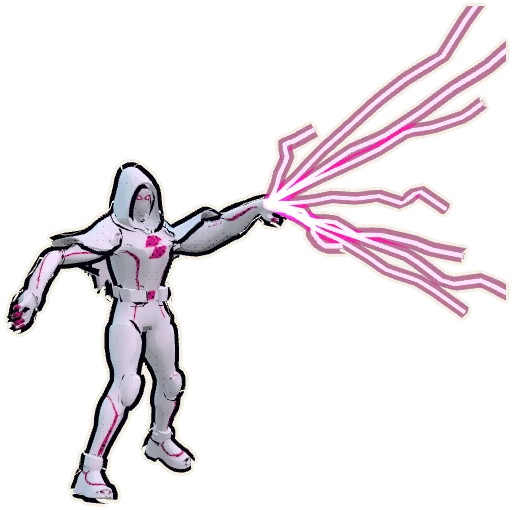
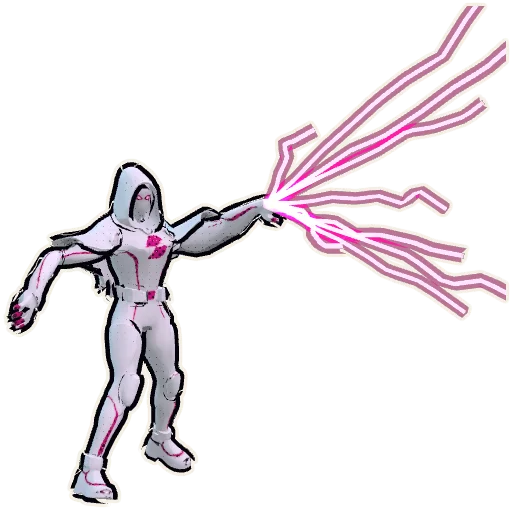
Ghost body reshaped from a reference female body model (Shifat Nov 2 5:55 PM: "use it as reference and modify ghosts current body mesh (not clothes)")
Measured "Female Body (A-Pose & T-Pose) Free" by Leafar (CC-BY-4.0, credited in CREDITS.md, not shipped) in cross-sections against her
mesh (tools/body_ref/measure_ref.py). Within the approved limits (0.93 height, leg length, Shadow shoulders/arms/hands, hips/thighs no
wider than 2d8c41e): waist narrower at the belt and staying narrow above it, flatter lower belly, glutes fullest above the crotch instead
of at the fold, bust a little higher/closer/less projected, knees narrower with a flatter front, lower calf a touch fuller. Suit, rig,
animations, hitboxes, physics and Shadow unchanged. First-screen Ghost re-baked (Shadow bake byte-identical).

diff --git a/src/ghostBody.ts b/src/ghostBody.ts
@@ -15,9 +15,26 @@ export const GHOST_HEIGHT = 0.93;
    Look at shadow. His ones thighs looks great"), slimmer calves. Head/hood a touch smaller. Shoulders, shoulder flaps, arms and hands are Shadow's own (no pull-in, no flap shrink,
    no arm/hand slimming), as on the first screen before the pass-2 body: Shifat Nov 2 4:53 PM "Old shoulder, hand looked better", 4:54 PM "Same" (in game too). */
 const FEM_LIMB: Record<string, number> = { thighL: 0.84, thighR: 0.84, shinL: 0.78, shinR: 0.78, footL: 0.90, footR: 0.90, head: 0.90, neck: 0.88 };
+/* Reference-driven anatomy (Shifat Nov 2 5:54-5:55 PM, sending a female body model: "Or use it as reference and modify ghosts current body mesh
+   (not clothes)"). The A-pose mesh of "Female Body (A-Pose & T-Pose) Free" by Leafar (CC-BY-4.0, credited in CREDITS.md; not shipped) was scaled to
+   her height (crotch, knee and shoulder land within 2 cm of hers, so leg length is untouched) and to her 2d8c41e hip width, then measured in
+   cross-sections front and side (tools/body_ref/measure_ref.py). What it changed, against 2d8c41e: */
+const REF = {
+    waistUpWidth: 0.19,  // waist stays narrow above the belt up to the lower ribs (ref waist is higher, rib cage narrow); below the belt unchanged
+    waistEdge: 0.08,     // waist outline at the belt, 1.12-1.24 (hips below 1.08 untouched)
+    flank: 0.12,         // extra pull-in of the flank silhouette at 1.23-1.32 (ref half-width ~15% under hers there)
+    belly: 0.08,         // lower belly front depth (ref ~10% flatter)
+    bust: 0.08, bustX: 0.085, bustY: 1.445,   // was 0.095 at x 0.095, y 1.415: ref apex is higher, a little closer in, less projection
+    seat: 0.038, seatY: 1.04,                 // was 0.035 at y 0.90 (the glute fold): ref glute is fullest above the crotch, a rounder seat from side and back
+    knee: 0.12,          // knee width (ref ~12% narrower side-to-side)
+    kneeFront: 0.2,      // knee front sits flatter (ref knee depth ~25% under hers; the pads keep their shape, just less forward bulge)
+    calfLow: 0.05,       // lower calf (ref ~8-13% fuller just above the boot)
+};
 export function feminineHeroData() {
     const d = JSON.parse(JSON.stringify(heroData)) as any;
     const p: number[] = d.pos, si: number[] = d.si, sw: number[] = d.sw, bones: { n: string; p: number; h: number[] }[] = d.bones;
+    const arm: number[] = [];   // per-vertex skin weight on the arm bones (so the flank pull-in never touches arms, shoulders, flaps or hands)
+    for (let v = 0; v < sw.length / 4; v++) { let a = 0, t = 0; for (let k = 0; k < 4; k++) { const w = sw[v * 4 + k]; t += w; if (/arm|hand/.test(bones[si[v * 4 + k]].n)) a += w; } arm.push(t > 0 ? Math.min(1, a / t * 1.6) : 0); }
     const gauss = (y: number, center: number, width: number) => Math.exp(-(((y - center) / width) ** 2));
     const sstep = (a: number, b: number, x: number) => { const t = Math.min(1, Math.max(0, (x - a) / (b - a))); return t * t * (3 - 2 * t); };
     const child: number[] = bones.map(() => -1);
@@ -27,16 +44,24 @@ export function feminineHeroData() {
         const x = p[i], y = p[i + 1], z = p[i + 2];
         // torso (pass 2, Shifat Nov 2 4:20 PM: stronger hourglass, a bit more bust)
         const torsoWeight = Math.max(0, 1 - Math.abs(x) / 0.34);
-                const waist = 1 - 0.36 * gauss(y, 1.18, 0.13);
+        // waist: same curve as 2d8c41e below the belt (hips/thighs never wider), but above it the waist runs on up to the ribs (ref: the natural
+        // waist sits higher and the torso stays narrow up to the lower ribs, instead of flaring back out right above the belt)
+        const waist = 1 - 0.36 * gauss(y, 1.18, y < 1.18 ? 0.13 : REF.waistUpWidth);
         const chest = 1 - 0.15 * gauss(y, 1.52, 0.16);
-        const factor = 1 + ((y < 1.06 ? 1 : y < 1.36 ? waist : chest) - 1) * torsoWeight;
+        const factor = 1 + ((y < 1.06 ? 1 : y < 1.18 ? waist : Math.min(waist, chest)) - 1) * torsoWeight;
         const depth = 1 - 0.14 * gauss(y, 1.18, 0.12) * torsoWeight;   // the waist narrows front-to-back too, so the hourglass reads in 3/4 and side
         q[0] = x * factor; q[1] = y; q[2] = z * depth;
-        if (z > 0 && Math.abs(x) < 0.27) {   // bust: two soft rounded forms, fuller lower edge, fading out at the sides and into the collar
-            const lobe = Math.exp(-(((Math.abs(x) - 0.095) / 0.09) ** 2)) * Math.exp(-(((y - 1.415) / (y < 1.415 ? 0.06 : 0.095)) ** 2));
-            q[2] += 0.095 * lobe * torsoWeight * sstep(0.0, 0.08, z); q[1] += 0.015 * lobe;
+        // flank above the belt, outer edge included (torsoWeight fades to nothing there): ref half-width at 1.26-1.32 is ~15% under Shadow's
+        if (y > 1.17 && y < 1.4 && z > -0.13) q[0] *= 1 - REF.flank * sstep(1.17, 1.23, y) * (1 - sstep(1.3, 1.38, y)) * sstep(0.08, 0.17, Math.abs(x)) * (1 - arm[v]);
+        // waist edge at the belt (torsoWeight barely reaches the outline there): ref waist-to-hip is 0.51, hers was 0.69; now ~0.63, hips untouched
+        if (y > 1.1 && y < 1.26) q[0] *= 1 - REF.waistEdge * gauss(y, 1.18, 0.04) * sstep(0.09, 0.15, Math.abs(x)) * (1 - arm[v]);
+        if (z > 0 && y > 0.98 && y < 1.16) q[2] *= 1 - REF.belly * gauss(y, 1.07, 0.05) * torsoWeight;   // flatter lower belly (ref front depth at 1.05-1.1 ~10% under hers)
+        if (z > 0 && Math.abs(x) < 0.27) {   // bust: two soft rounded forms, fuller lower edge, fading out at the sides and into the collar; placed and sized from the ref
+            const lobe = Math.exp(-(((Math.abs(x) - REF.bustX) / 0.09) ** 2)) * Math.exp(-(((y - REF.bustY) / (y < REF.bustY ? 0.065 : 0.095)) ** 2));
+            q[2] += REF.bust * lobe * torsoWeight * sstep(0.0, 0.08, z); q[1] += 0.012 * lobe;
         }
-        if (z < 0 && y < 1.06 && y > 0.75 && Math.abs(x) < 0.3) q[2] -= 0.035 * gauss(y, 0.9, 0.1) * sstep(-0.02, -0.1, z) * torsoWeight;   // a touch more seat
+        // seat: the glute's fullest point sits above the crotch (ref ~1.05, hero crotch ~0.97), not at the glute fold (was 0.9); athletic, modest
+        if (z < 0 && y < 1.2 && y > 0.8 && Math.abs(x) < 0.3) q[2] -= REF.seat * gauss(y, REF.seatY, 0.085) * sstep(-0.02, -0.1, z) * torsoWeight;
         // limbs, blended by skin weight
         let ox = 0, oy = 0, oz = 0, wsum = 0;
         for (let k = 0; k < 4; k++) {
@@ -50,7 +75,11 @@ export function feminineHeroData() {
                     const ux = ax / L, uy = ay / L, uz = az / L, vx = q[0] - h0[0], vy = q[1] - h0[1], vz = q[2] - h0[2];
                     const t = vx * ux + vy * uy + vz * uz;
                     const ss = b.n.startsWith('thigh') ? 1 - (1 - s) * (0.45 + 0.55 * sstep(0, 0.55, t / L)) : s;
-                    r[0] = h0[0] + ux * t + (vx - ux * t) * ss; r[1] = h0[1] + uy * t + (vy - uy * t) * ss; r[2] = h0[2] + uz * t + (vz - uz * t) * ss;
+                    const ax0 = h0[0] + ux * t, az0 = h0[2] + uz * t;
+                    // knee narrower side-to-side (ref knee width ~12% under hers; the knee pads' front depth kept), lower calf a touch fuller
+                    const kx = b.n.startsWith('thigh') || b.n.startsWith('shin') ? 1 - REF.knee * gauss(q[1], 0.535, 0.05) + REF.calfLow * gauss(q[1], 0.35, 0.05) : 1;
+                    const kz = (b.n.startsWith('shin') ? 1 + REF.calfLow * gauss(q[1], 0.35, 0.05) : 1) * (vz - uz * t > 0 && (b.n.startsWith('thigh') || b.n.startsWith('shin')) ? 1 - REF.kneeFront * gauss(q[1], 0.62, 0.065) : 1);
+                    r[0] = ax0 + (vx - ux * t) * ss * kx; r[1] = h0[1] + uy * t + (vy - uy * t) * ss; r[2] = az0 + (vz - uz * t) * ss * kz;
                 } else {
                     const cx = b.n === 'head' || b.n === 'neck' ? 0 : h0[0], cy = b.n === 'head' || b.n === 'neck' ? 1.72 : h0[1], cz = b.n === 'head' || b.n === 'neck' ? 0 : h0[2];
                     r[0] = cx + (q[0] - cx) * s; r[1] = cy + (q[1] - cy) * s; r[2] = cz + (q[2] - cz) * s;

diff --git a/tools/body_ref/measure_ref.py b/tools/body_ref/measure_ref.py
@@ -1,0 +1,78 @@
+#!/usr/bin/env python3
+"""Measure a reference body (glTF, A-pose) against the hero mesh, for src/ghostBody.ts (Nov 2 2026).
+
+Usage: python3 tools/body_ref/measure_ref.py <scene.gltf> [ghost_pos.json]
+  scene.gltf: "Female Body (A-Pose & T-Pose) Free" by Leafar, CC-BY-4.0 (see CREDITS.md). Not in the repo; reference only.
+  ghost_pos.json (optional): {"ghost": [x,y,z,...]} = feminineHeroData().pos, dumped with esbuild, to print Ghost beside it.
+Needs numpy. Prints cross-section widths/depths at body landmarks (torso half-width, front/back depth; per-leg width/depth),
+with the reference scaled to the hero's height (crotch, knee and shoulder land within 2 cm) and then to the hero's hip width.
+"""
+import json, sys, os
+import numpy as np
+
+HERO = os.path.join(os.path.dirname(__file__), '..', '..', 'src', 'hero.json')
+
+def load_ref(path, mesh_name='Female_APose__0'):
+    g = json.load(open(path)); binf = open(os.path.join(os.path.dirname(path), g['buffers'][0]['uri']), 'rb').read()
+    def acc(i):
+        a = g['accessors'][i]; bv = g['bufferViews'][a['bufferView']]; off = bv.get('byteOffset', 0) + a.get('byteOffset', 0)
+        n = {'SCALAR': 1, 'VEC2': 2, 'VEC3': 3, 'VEC4': 4}[a['type']]; dt = {5126: np.float32, 5125: np.uint32, 5123: np.uint16}[a['componentType']]
+        st = bv.get('byteStride', 0)
+        if st:
+            raw = np.frombuffer(binf, np.uint8, st * a['count'], off).reshape(-1, st); return raw[:, :n * np.dtype(dt).itemsize].copy().view(dt).reshape(-1, n)
+        return np.frombuffer(binf, dt, a['count'] * n, off).reshape(-1, n)
+    par = {c: i for i, n in enumerate(g['nodes']) for c in n.get('children', [])}
+    ni = next(i for i, n in enumerate(g['nodes']) if n.get('name') == mesh_name)
+    M = np.eye(4); i = ni
+    while i is not None:
+        n = g['nodes'][i]; M = (np.array(n['matrix']).reshape(4, 4).T if 'matrix' in n else np.eye(4)) @ M; i = par.get(i)
+    pr = g['meshes'][g['nodes'][ni]['mesh']]['primitives'][0]
+    P = acc(pr['attributes']['POSITION']).astype(float); P = (np.c_[P, np.ones(len(P))] @ M.T)[:, :3]
+    P[:, 0] -= (P[:, 0].min() + P[:, 0].max()) / 2; P[:, 1] -= P[:, 1].min()
+    return P, acc(pr['indices']).reshape(-1, 3)
+
+def xsec(A, idx, y):
+    T = A[idx]; out = []
+    for a, b in ((0, 1), (1, 2), (2, 0)):
+        ya, yb = T[:, a, 1], T[:, b, 1]; m = (ya - y) * (yb - y) < 0
+        out.append(T[m, a] + (T[m, b] - T[m, a]) * ((y - ya[m]) / (yb[m] - ya[m]))[:, None])
+    return np.vstack(out)
+
+def clusters(P, gap):
+    if not len(P): return []
+    P = P[np.argsort(P[:, 0])]; return np.split(P, np.where(np.diff(P[:, 0]) > gap)[0] + 1)
+
+def torso(A, idx, y, gap=0.03):
+    for c in clusters(xsec(A, idx, y), gap):
+        if c[:, 0].min() <= 0 <= c[:, 0].max(): return max(-c[:, 0].min(), c[:, 0].max()), c[:, 2].max(), c[:, 2].min()
+    return None
+
+def leg(A, idx, y, maxx=0.32):
+    P = xsec(A, idx, y); P = P[(P[:, 0] > 0) & (P[:, 0] < maxx)]
+    if len(P) < 3: return None
+    return P[:, 0].max() - P[:, 0].min(), P[:, 2].max() - P[:, 2].min()
+
+def main():
+    R, Ri = load_ref(sys.argv[1]); H = json.load(open(HERO))
+    S = np.array(H['pos']).reshape(-1, 3); Si = np.array(H['idx']).reshape(-1, 3)
+    si = np.array(H['si']).reshape(-1, 4); sw = np.array(H['sw']).reshape(-1, 4); names = [b['n'] for b in H['bones']]
+    legw = (np.isin(si, [names.index(n) for n in names if n[:5] in ('thigh', 'shinL', 'shinR', 'footL', 'footR')]) * sw).sum(1)
+    Li = Si[(legw[Si] > 0.5).all(1)]
+    G = np.array(json.load(open(sys.argv[2]))['ghost']).reshape(-1, 3) if len(sys.argv) > 2 else None
+    k = (S[:, 1].max()) / R[:, 1].max()               # height (the hood tip vs the crown: crotch/knee/shoulder then agree within 2 cm)
+    hipR = torso(R, Ri, 0.99 / k)[0] * k; hipH = torso(G if G is not None else S, Si, 0.99, 0.04)[0]
+    w = hipH / hipR                                    # width: reference hip = hero hip
+    print(f"height scale {k:.3f}, hip-width scale {w:.3f} (on top of height)")
+    print("TORSO  y    ref half/zf/zb (hip-scaled)   shadow half/zf/zb" + ("   ghost" if G is not None else ""))
+    for y in np.arange(0.99, 1.45, 0.03):
+        r = torso(R, Ri, y / k); s = torso(S, Si, y, 0.04); gg = torso(G, Si, y, 0.04) if G is not None else None
+        f = lambda t, m=1: ("%.3f %+.3f %+.3f" % tuple(v * m for v in t)) if t else "   -"
+        print(f"      {y:.2f}  {f(r, k * w)}   {f(s)}" + (f"   {f(gg)}" if G is not None else ""))
+    print("LEG    y    ref w/d (hip-scaled)   shadow w/d" + ("   ghost" if G is not None else ""))
+    for y in np.arange(0.28, 0.97, 0.03):
+        r = leg(R, Ri, y / k, 0.2); s = leg(S, Li, y); gg = leg(G, Li, y) if G is not None else None
+        f = lambda t, m=1: ("%.3f %.3f" % (t[0] * m, t[1] * m)) if t else "  -"
+        print(f"      {y:.2f}  {f(r, k * w)}   {f(s)}" + (f"   {f(gg)}" if G is not None else ""))
+
+if __name__ == '__main__':
+    main()

diff --git a/CREDITS.md b/CREDITS.md
@@ -1,0 +1,7 @@
+# Shade Verse credits
+
+Audio credits and licenses: [public/audio/CREDITS.md](public/audio/CREDITS.md).
+
+## Reference models (used for measurement only, not shipped)
+- Ghost's body proportions (src/ghostBody.ts, Nov 2 2026) were measured from this model; no part of the model ships with the game:
+  This work is based on "Female Body (A-Pose & T-Pose) Free" (https://sketchfab.com/3d-models/female-body-a-pose-t-pose-free-f11638b5c2fb43ca977095781e8a606d) by Leafar (https://sketchfab.com/leafar112) licensed under CC-BY-4.0 (http://creativecommons.org/licenses/by/4.0/)
